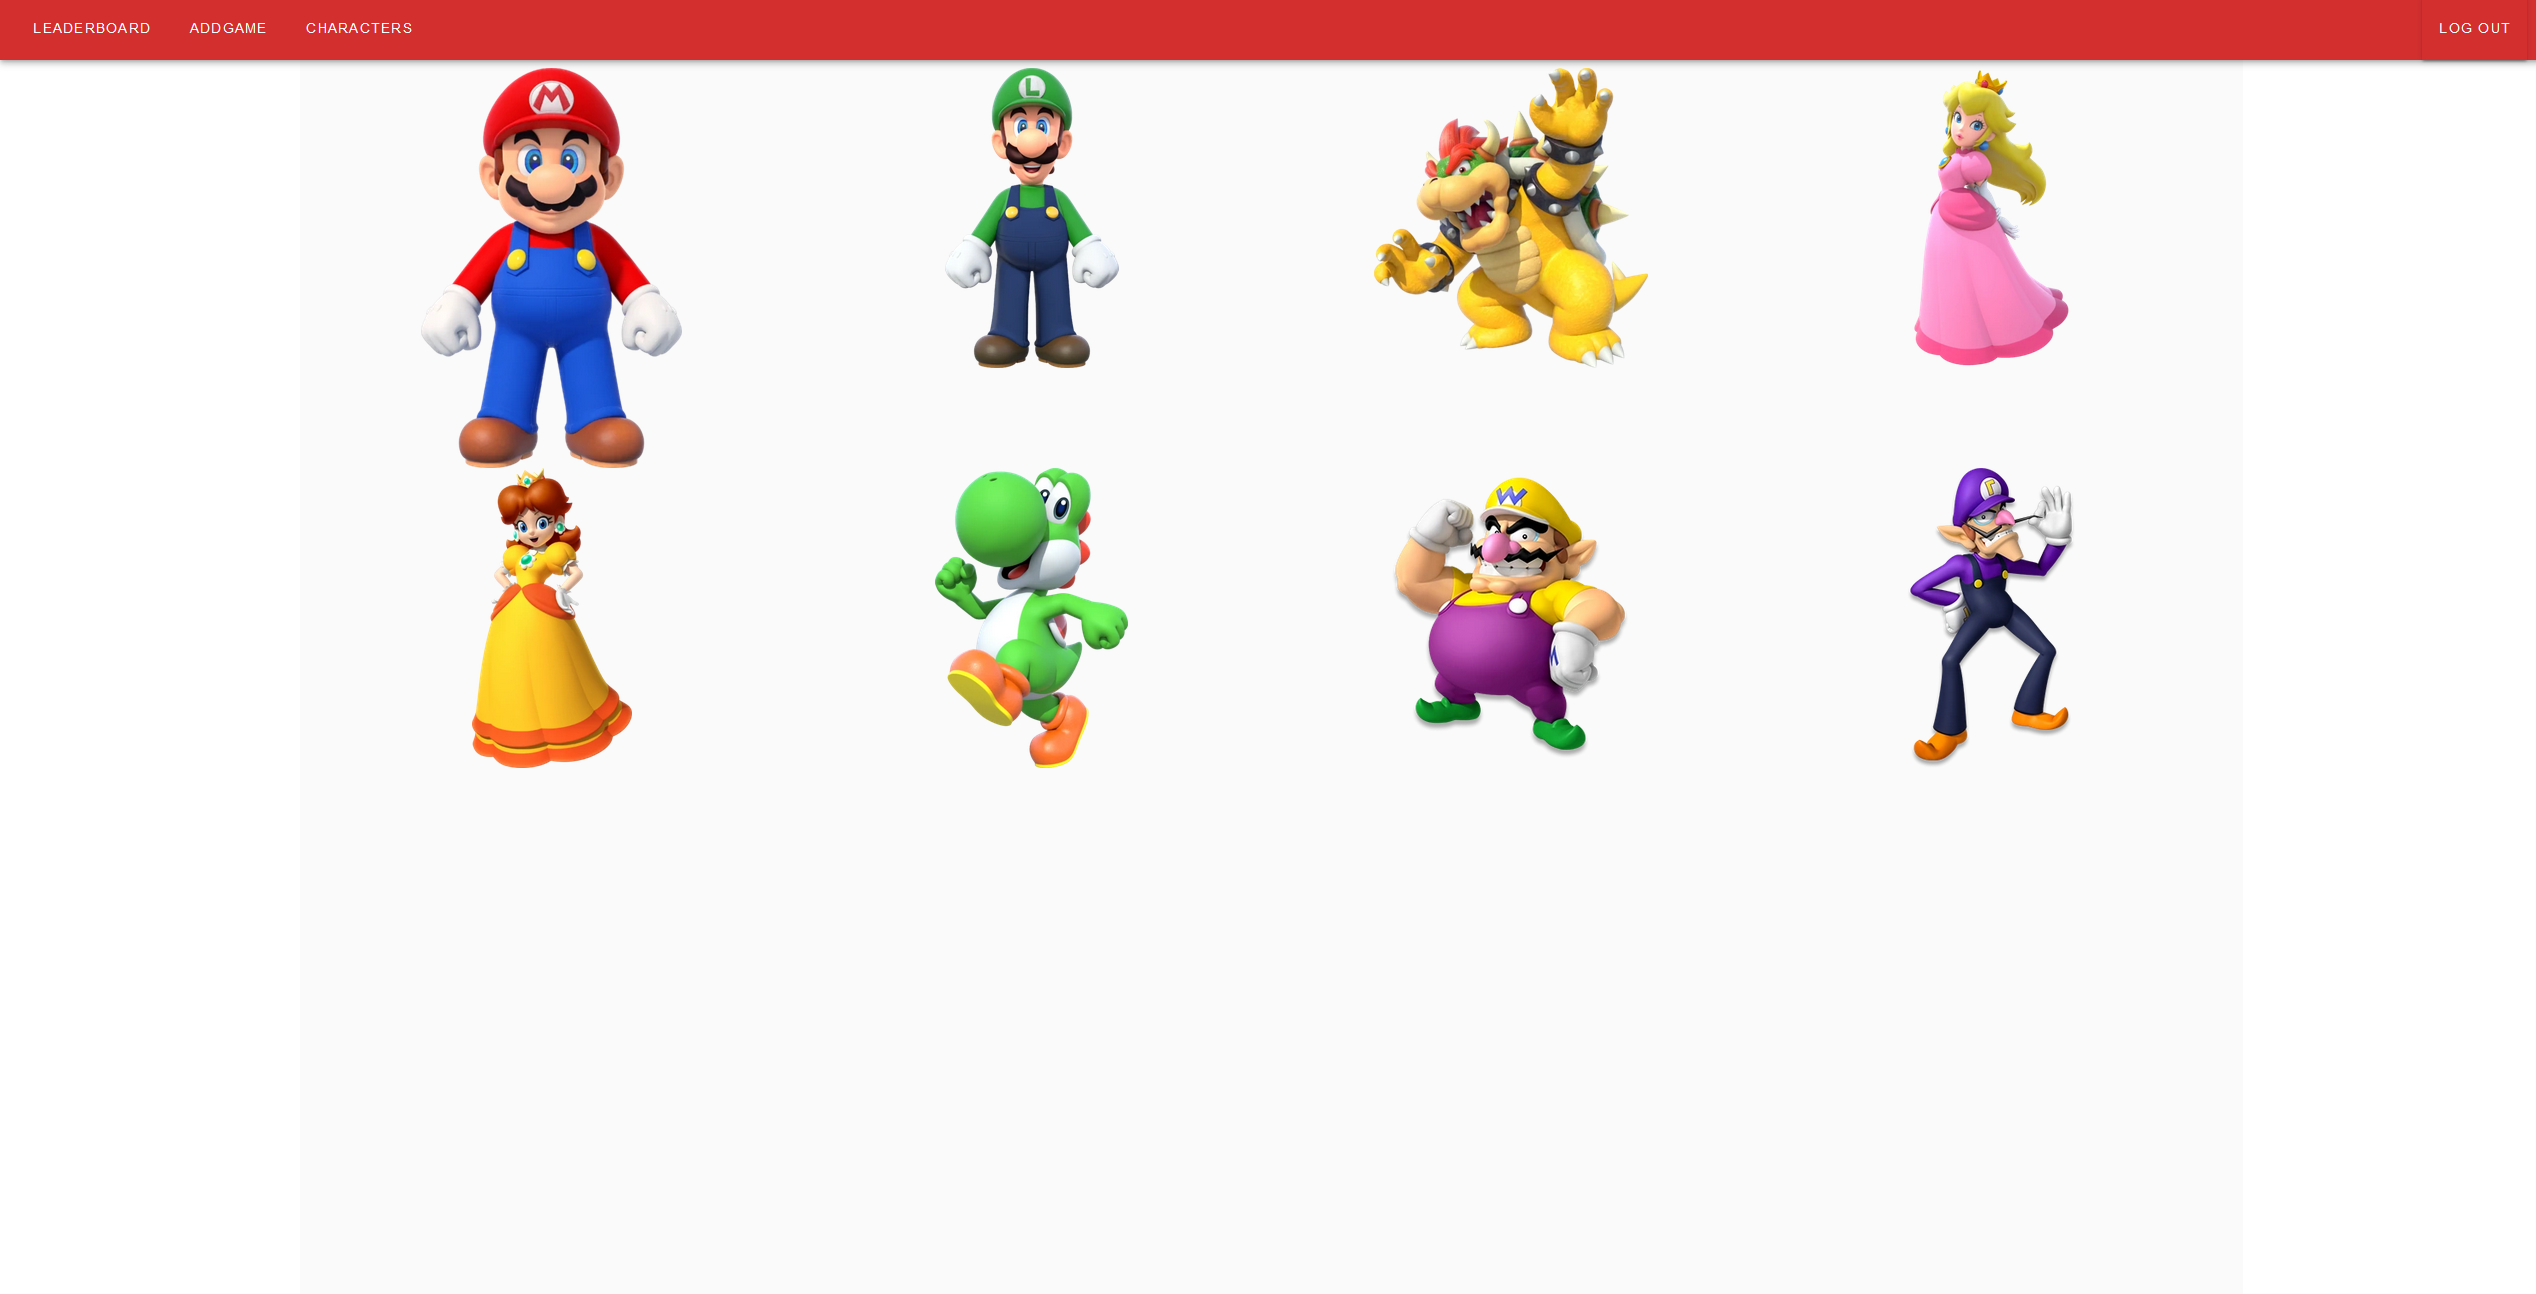
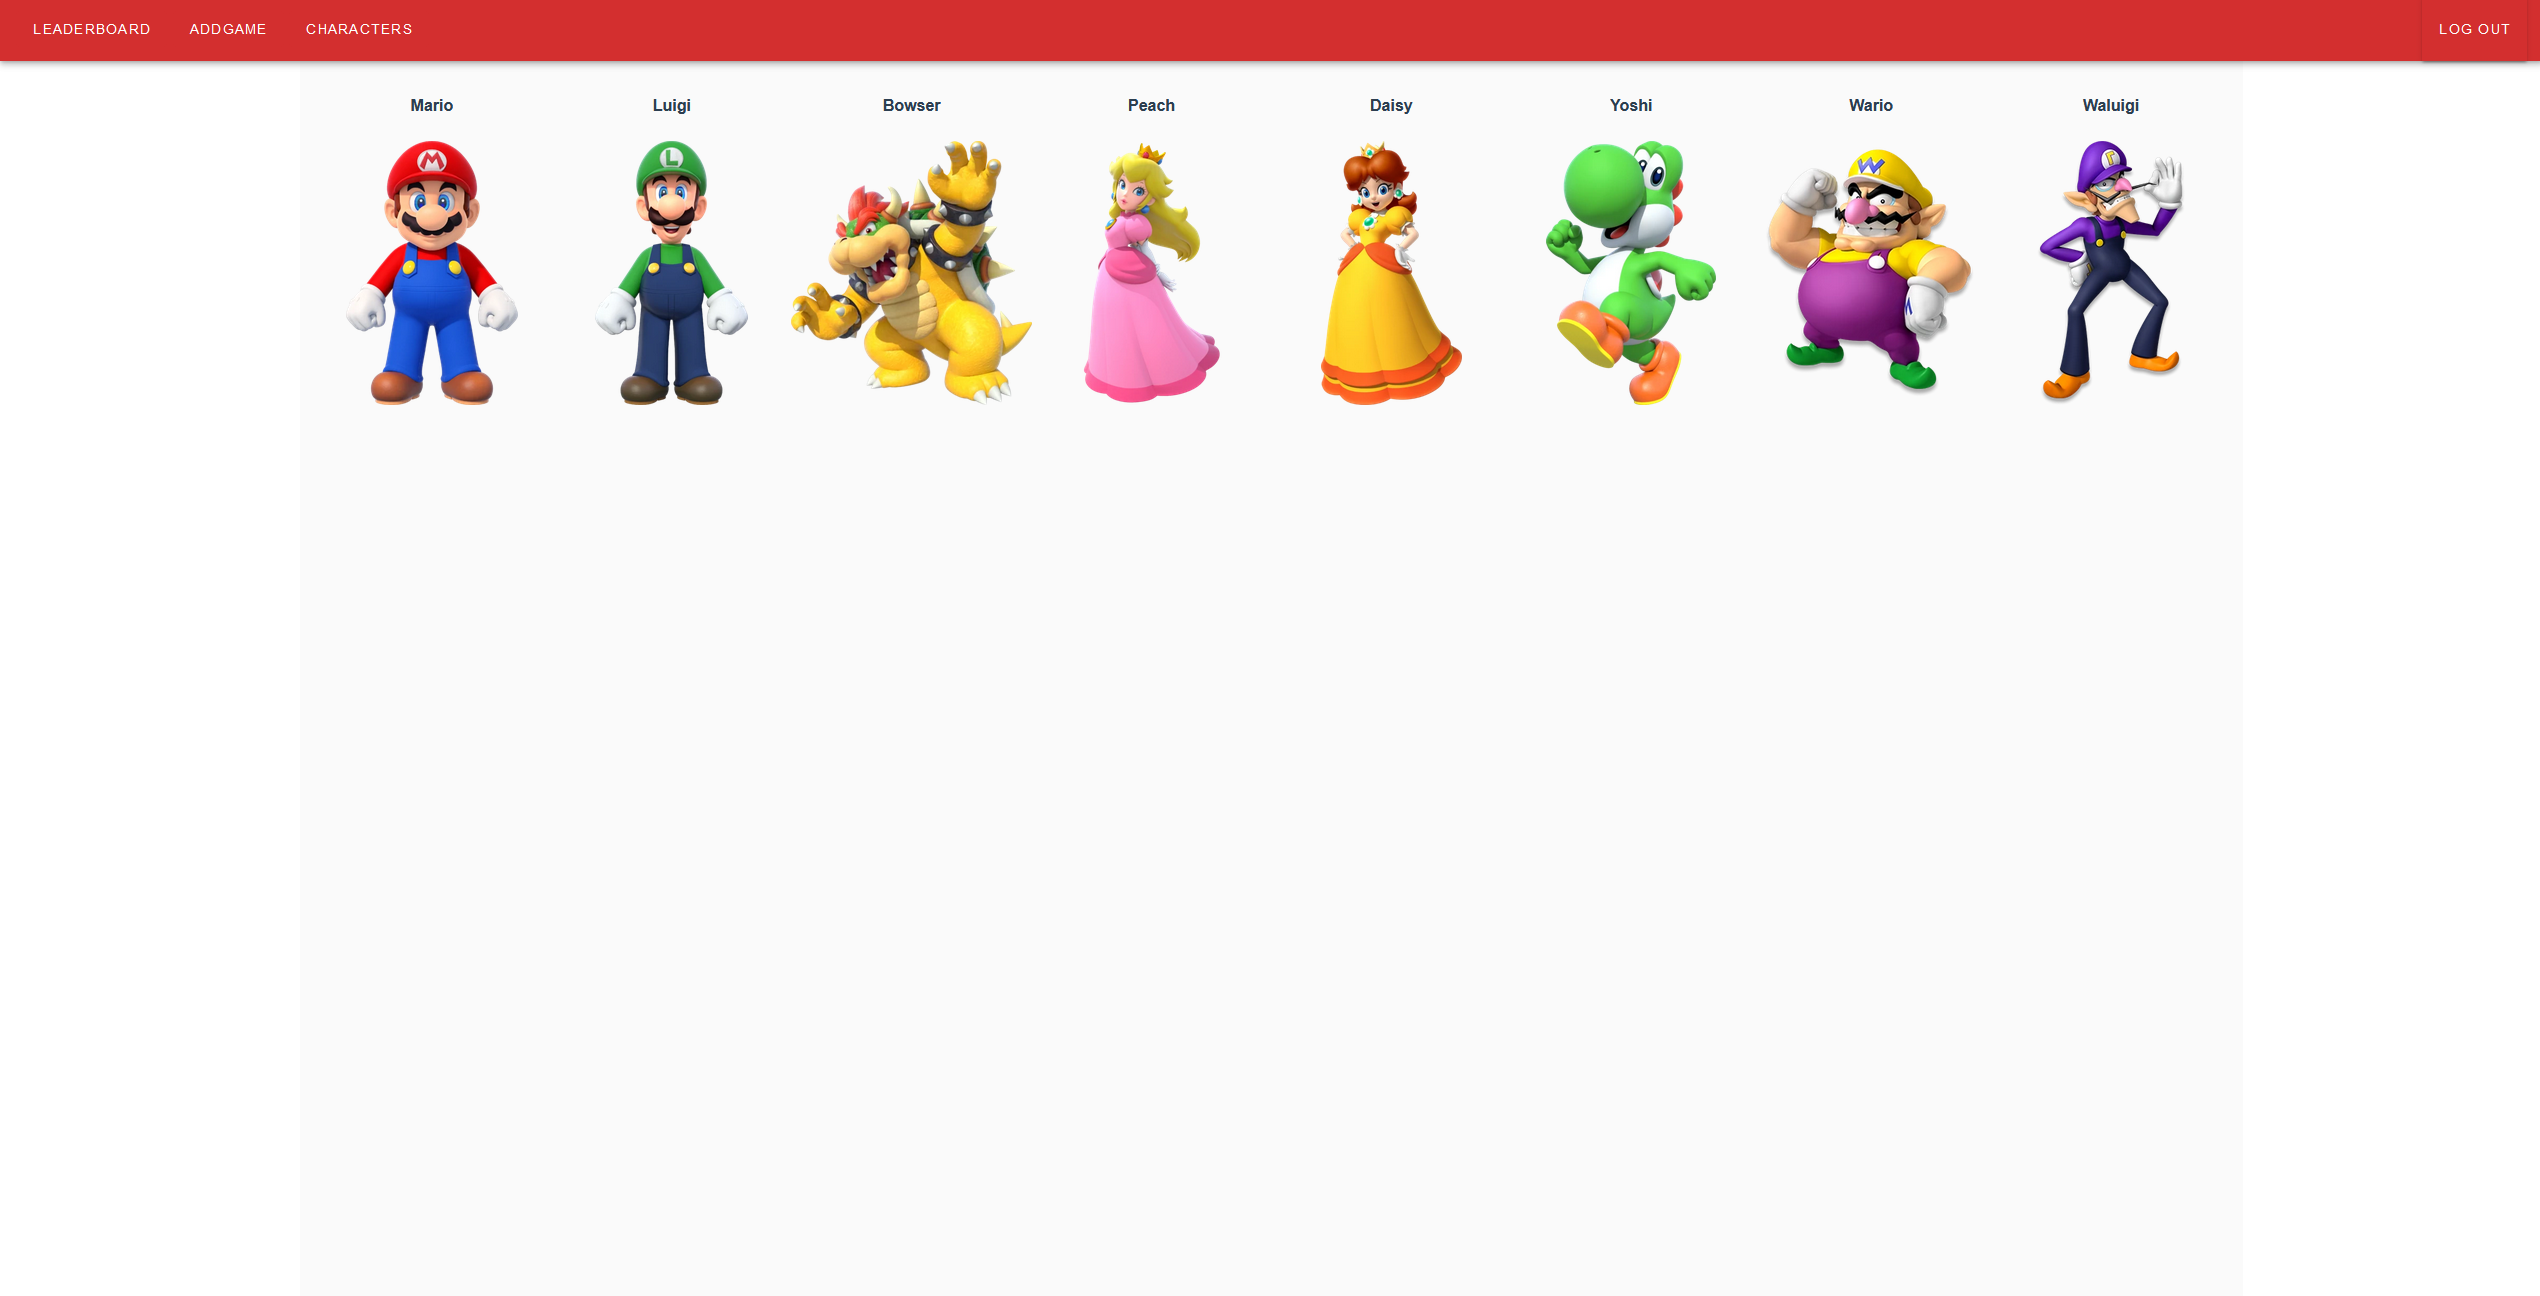
[UPDATE] Dynamic characters on Characters page

diff --git a/client/src/components/Characters.vue b/client/src/components/Characters.vue
@@ -1,75 +1,31 @@
 <template>
-<v-layout column>
+    <v-layout column>
         <v-row no-gutters>
-            <template>
-              <v-img
-                src="https://vignette.wikia.nocookie.net/mario/images/a/a1/NSMBUDX-Mario-1.png/revision/latest/scale-to-width-down/326?cb=20190130012618&path-prefix=fr"
-                contain
-                aspect-ratio="1"
-                max-width="600"
-                max-height="400"
-              ></v-img>
-              <v-img
-                src="https://vignette.wikia.nocookie.net/mario/images/d/d1/NSMBUDX-Luigi.png/revision/latest/scale-to-width-down/290?cb=20190223013104&path-prefix=fr"
-                contain
-                aspect-ratio="1"
-                max-width="500"
-                max-height="300"
-              ></v-img>
-              <v-img
-                src="https://vignette.wikia.nocookie.net/mario/images/7/7e/Bowser_-_Mario_Party_10.png/revision/latest/scale-to-width-down/350?cb=20180403191653&path-prefix=fr"
-                contain
-                aspect-ratio="1"
-                max-width="500"
-                max-height="300"
-              ></v-img>
-              <v-img
-                src="https://vignette.wikia.nocookie.net/mario/images/a/a1/Peach_Mario_Party_10.png/revision/latest/scale-to-width-down/267?cb=20181011194218&path-prefix=fr"
-                contain
-                aspect-ratio="1"
-                max-width="500"
-                max-height="300"
-              ></v-img>
-              </template>
-              </v-row>
-              <v-row no-gutters>
-                <template>
-              <v-img
-                src="https://vignette.wikia.nocookie.net/mario/images/6/6c/Artwork_Daisy_MP10.png/revision/latest/scale-to-width-down/267?cb=20171021130941&path-prefix=fr"
-                contain
-                aspect-ratio="1"
-                max-width="500"
-                max-height="300"
-              ></v-img>
-              <v-img
-                src="https://vignette.wikia.nocookie.net/mario/images/2/21/MP10-Yoshi.png/revision/latest/scale-to-width-down/321?cb=20190609104731&path-prefix=fr"
-                contain
-                aspect-ratio="1"
-                max-width="500"
-                max-height="300"
-              ></v-img>
-              <v-img
-                src="https://vignette.wikia.nocookie.net/mario/images/2/23/MP10Wario.png/revision/latest?cb=20170515174123&path-prefix=fr"
-                contain
-                aspect-ratio="1"
-                max-width="500"
-                max-height="300"
-              ></v-img>
-              <v-img
-                src="https://vignette.wikia.nocookie.net/mario/images/4/4c/Waluigi_MP10.png/revision/latest?cb=20190609112644&path-prefix=fr"
-                contain
-                aspect-ratio="1"
-                max-width="500"
-                max-height="300"
-              ></v-img>
+            <template title="Characters">
+                <v-col
+                v-for="(character, index) in characters"
+                :key="index"
+                class="font-weight-bold">
+                <br>
+                {{character.name}}
+                <br><br>
+
+                <v-row align="center" justify="center">
+                    <v-img
+                        :src="character.characterImageUrl"
+                        contain
+                        aspect-ratio="1"
+                        max-width="500"
+                        max-height="300"/>
+                </v-row>
+                </v-col>
             </template>
         </v-row>
     </v-layout>
 </template>
 
 <script>
-
-
+import CharactersService from '@/services/CharactersService'
 import Panel from '@/components/Panel'
 
 export default {
@@ -80,6 +36,9 @@ export default {
     return {
       characters: null
     }
+  },
+  async mounted () {
+    this.characters = (await CharactersService.getAllCharacters()).data
   }
 }
 </script>

diff --git a/server/src/controllers/CharactersController.js b/server/src/controllers/CharactersController.js
@@ -1,0 +1,26 @@
+const {Character} = require('../models')
+
+module.exports = {
+  async getAllCharacters (req, res) {
+    try {
+      const character = await Character.findAll({
+        limit: 10
+      })
+      res.send(character)
+    } catch (err) {
+      res.status(500).send({
+        error: 'An error has occured trying to fetch the characters.'
+      })
+    }
+  },
+  async post (req, res) {
+    try {
+        const character = await Character.create(req.body)
+        res.send(character)
+    } catch (err) {
+      res.status(500).send({
+        error: 'An error has occured trying to create the character.'
+      })
+    }
+  }
+}

diff --git a/server/src/routes.js b/server/src/routes.js
@@ -1,6 +1,7 @@
 const AuthenticationController = require('./controllers/AuthenticationController')
 const AuthenticationControllerPolicy = require('./policies/AuthenticationControllerPolicy')
 const GamesController = require('./controllers/GamesController')
+const CharactersController = require('./controllers/CharactersController')
 
 module.exports = (app) => {
     app.post('/register',
@@ -15,4 +16,10 @@ module.exports = (app) => {
     
     app.post('/games',
         GamesController.post)
+
+    app.get('/characters',
+        CharactersController.getAllCharacters)
+    
+    app.post('/characters',
+        CharactersController.post)
 }

diff --git a/server/src/models/Characters.js b/server/src/models/Characters.js
@@ -1,0 +1,8 @@
+module.exports = (sequelize, DataTypes) => {
+    const Character = sequelize.define('Character', {
+        name: DataTypes.STRING,
+        characterImageUrl: DataTypes.STRING
+    })
+
+    return Character
+}

diff --git a/client/src/services/CharactersService.js b/client/src/services/CharactersService.js
@@ -1,0 +1,7 @@
+import Api from '@/services/Api'
+
+export default {
+  getAllCharacters () {
+    return Api().get('characters')
+  }
+}
